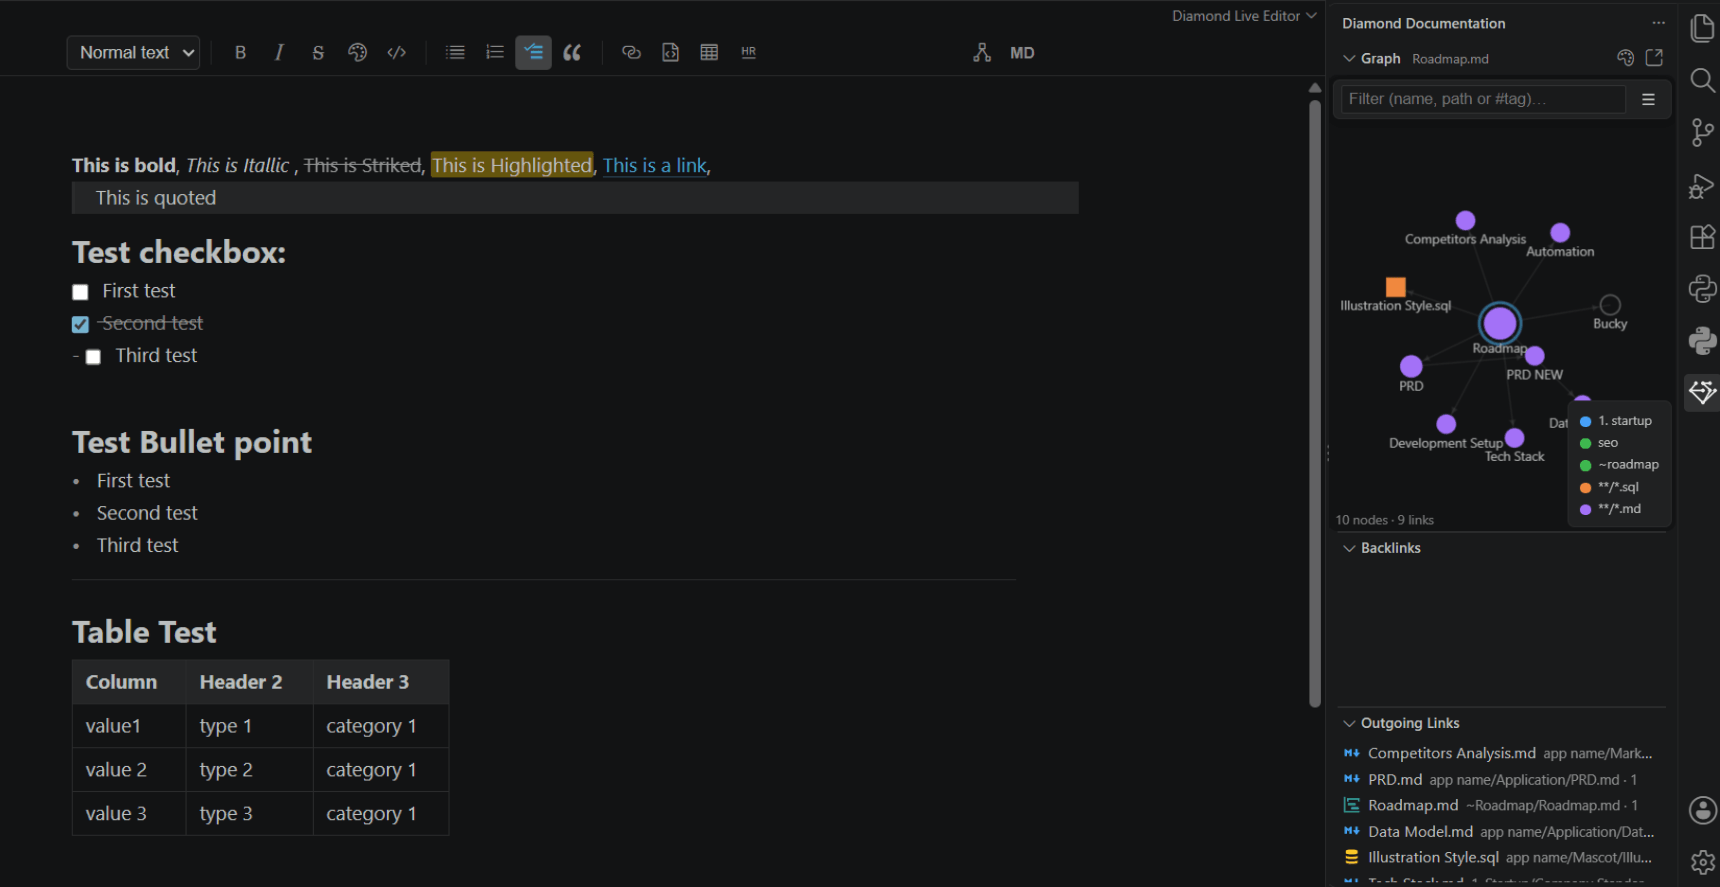
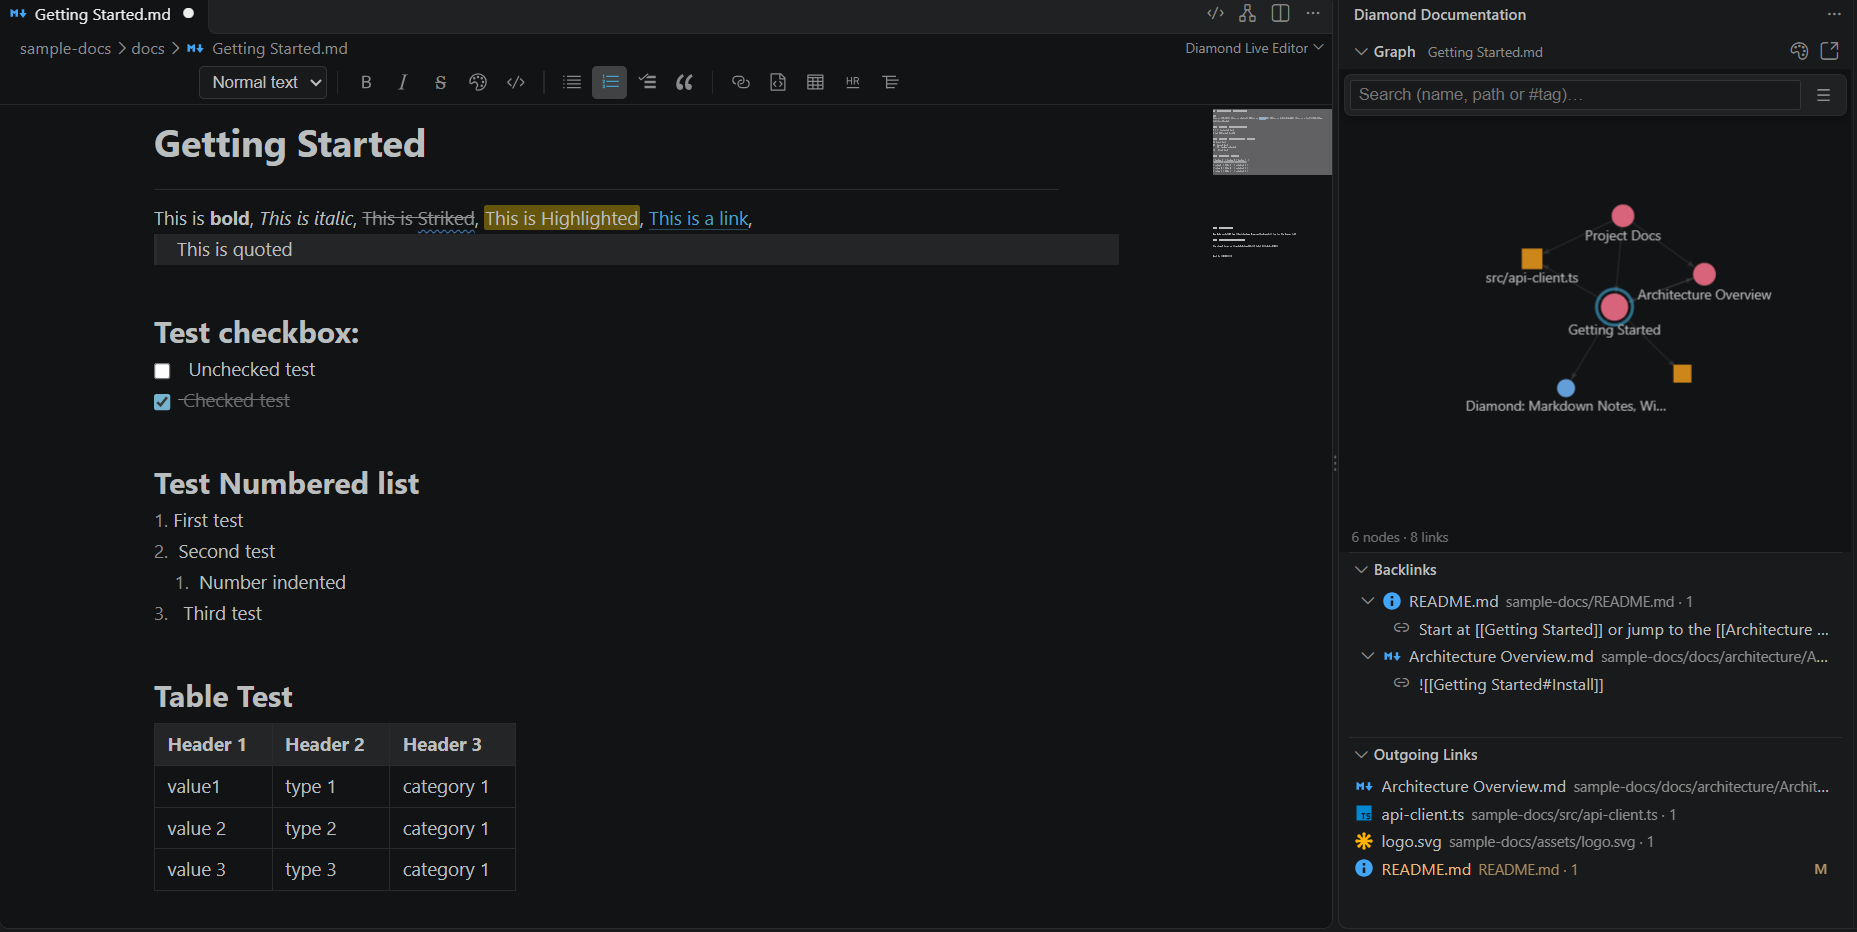
chore(marketplace): improve listing discoverability and README [CPT11]

diff --git a/README.md b/README.md
@@ -1,8 +1,21 @@
-<p align="center"><img src="media/icon.png" width="128" alt="Diamond Documentation logo"></p>
+<p align="center"><img src="media/Diamond%20Documentation%20Banner.png" alt="Diamond Documentation Banner"></p>
 
-# Diamond Documentation
+# Diamond: Markdown Notes, Wikilinks & Graph
 
-VS Code extension for managing project documentation through a live Markdown editor, wiki-style links, backlinks, and an interactive knowledge graph, keeping everything local, plain-text, and Git-friendly. Write and navigate project documentation inside VS Code. Notes are plain Markdown files that live next to your code, so Git versions them like everything else, and they can link to **any** file in the project:  `.md` files, `.sql` scripts, `.ts` sources, `.html` pages, images, binaries, etc.
+<div align="center">
+
+[![Contributors][contributors-shield]][contributors-url]
+[![Forks][forks-shield]][forks-url]
+[![Stargazers][stars-shield]][stars-url]
+[![Issues][issues-shield]][issues-url]
+[![MIT License][license-shield]][license-url]
+[![LinkedIn][linkedin-shield]][linkedin-url]
+
+</div>
+
+<p align="center"><b>Markdown notes · Wikilinks · Backlinks · Graph view · Local-first · Git-friendly</b></p>
+
+**A live Markdown editor for VS Code with wikilinks, backlinks, an interactive knowledge graph, table of contents and spellcheck, for project docs and notes that stay local, plain-text and Git-friendly.** Write and navigate project documentation inside VS Code. Notes are plain Markdown files that live next to your code, so Git versions them like everything else, and they can link to **any** file in the project:  `.md` files, `.sql` scripts, `.ts` sources, `.html` pages, images, binaries, etc.
 
 ![The live editor with its formatting toolbar, and the Diamond side bar with the local graph, colour legend, backlinks and outgoing links](media/screenshot.png)
 
@@ -31,7 +44,16 @@ The toolbar has a text-style picker (normal text, headings 1–6), bold, italic,
 
 **Link autocomplete.** Type `[[` to get a fuzzy-searchable list of every file in the workspace and press Enter to complete the link. After a note name, type `#` (`[[Setup Guide#`) to choose one of its headings. This works in both the live editor and the source editor. The live editor also closes brackets and quotes as you type (`diamond.liveEditor.autoCloseBrackets`).
 
-**Table of contents.** Click the list icon in the toolbar (after the divider) or run **Diamond: Insert / Update Table of Contents** to insert a linked list of your headings at the cursor, between `<!-- toc -->` and `<!-- /toc -->` markers. Whenever the note is saved the list between the markers is refreshed (turn this off with `diamond.toc.updateOnSave`). The document's single `#` title is left out.
+**Table of contents.** Click the list icon in the toolbar (after the divider) or run **Diamond: Insert / Update Table of Contents** to insert a linked list of your headings at the cursor, between `<!-- toc -->
+
+- [Features](#features)
+- [Live editor](#live-editor)
+- [Graph colours](#graph-colours)
+- [Shortcuts](#shortcuts)
+- [Settings](#settings)
+  - [Layout](#layout)
+
+<!-- /toc -->` markers. Whenever the note is saved the list between the markers is refreshed (turn this off with `diamond.toc.updateOnSave`). The document's single `#` title is left out.
 
 **Tables.** Inside a table, Tab and Shift+Tab move to the next or previous cell and re-align the pipes; Tab in the last cell starts a new row. Elsewhere Tab indents as usual.
 
@@ -129,3 +151,16 @@ For building, testing and releasing, see the [developer onboarding guide](ONBOAR
 - `src/openDefault.ts`: opening Markdown in the live editor, switching to source in place
 - `src/webview/toolbar.ts`: live editor toolbar
 - `src/preview.ts`: markdown-it plugin for the built-in preview
+
+[contributors-shield]: https://img.shields.io/github/contributors/christian-jaimes/diamond-documentation.svg?style=for-the-badge
+[contributors-url]: https://github.com/christian-jaimes/diamond-documentation/graphs/contributors
+[forks-shield]: https://img.shields.io/github/forks/christian-jaimes/diamond-documentation.svg?style=for-the-badge
+[forks-url]: https://github.com/christian-jaimes/diamond-documentation/network/members
+[stars-shield]: https://img.shields.io/github/stars/christian-jaimes/diamond-documentation.svg?style=for-the-badge
+[stars-url]: https://github.com/christian-jaimes/diamond-documentation/stargazers
+[issues-shield]: https://img.shields.io/github/issues/christian-jaimes/diamond-documentation.svg?style=for-the-badge
+[issues-url]: https://github.com/christian-jaimes/diamond-documentation/issues
+[license-shield]: https://img.shields.io/github/license/christian-jaimes/diamond-documentation.svg?style=for-the-badge
+[license-url]: https://github.com/christian-jaimes/diamond-documentation/blob/main/LICENSE
+[linkedin-shield]: https://img.shields.io/badge/-LinkedIn-black.svg?style=for-the-badge&logo=linkedin&colorB=555
+[linkedin-url]: https://linkedin.com/in/christianjaimes

diff --git a/CHANGELOG.md b/CHANGELOG.md
@@ -1,5 +1,9 @@
 # Changelog
 
+## 1.0.1
+
+- Marketplace and GitHub listing: badges, new display name "Diamond: Markdown Notes, Wikilinks & Graph", keyword-rich description, expanded keywords and categories, and a clearer README introduction. The extension ID is unchanged.
+
 ## 1.0.0
 
 The first stable release. The live editor now feels like a full Markdown editor, and the graph is easier to read.
